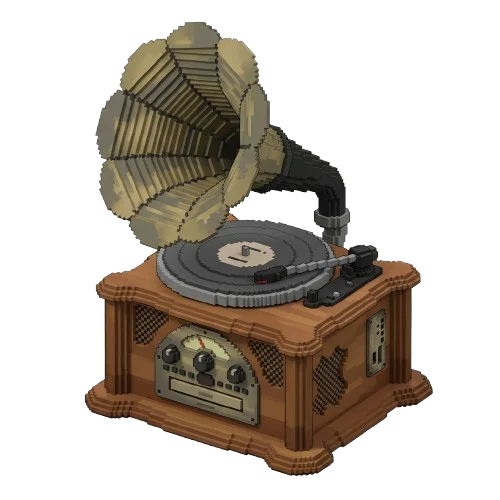
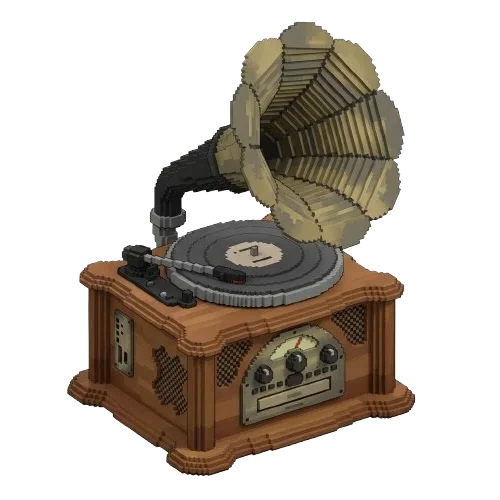
Flip gramophone so the horn faces right

diff --git a/src/components/Gramophone.tsx b/src/components/Gramophone.tsx
@@ -39,7 +39,7 @@ export function Gramophone({ tracks, className }: { tracks: MusicTrack[]; classN
           aria-hidden="true"
           className="pointer-events-none absolute inset-0 size-full"
         >
-          <g transform="translate(245 260) scale(1 0.45)">
+          <g transform="translate(255 260) scale(1 0.45)">
             <g className="gramophone-spin">
               <circle r="82" fill="none" stroke="#d9d9d7" strokeOpacity="0.28" strokeWidth="5" strokeDasharray="70 446" />
               <circle r="62" fill="none" stroke="#d9d9d7" strokeOpacity="0.2" strokeWidth="4" strokeDasharray="50 340" strokeDashoffset="-120" />
